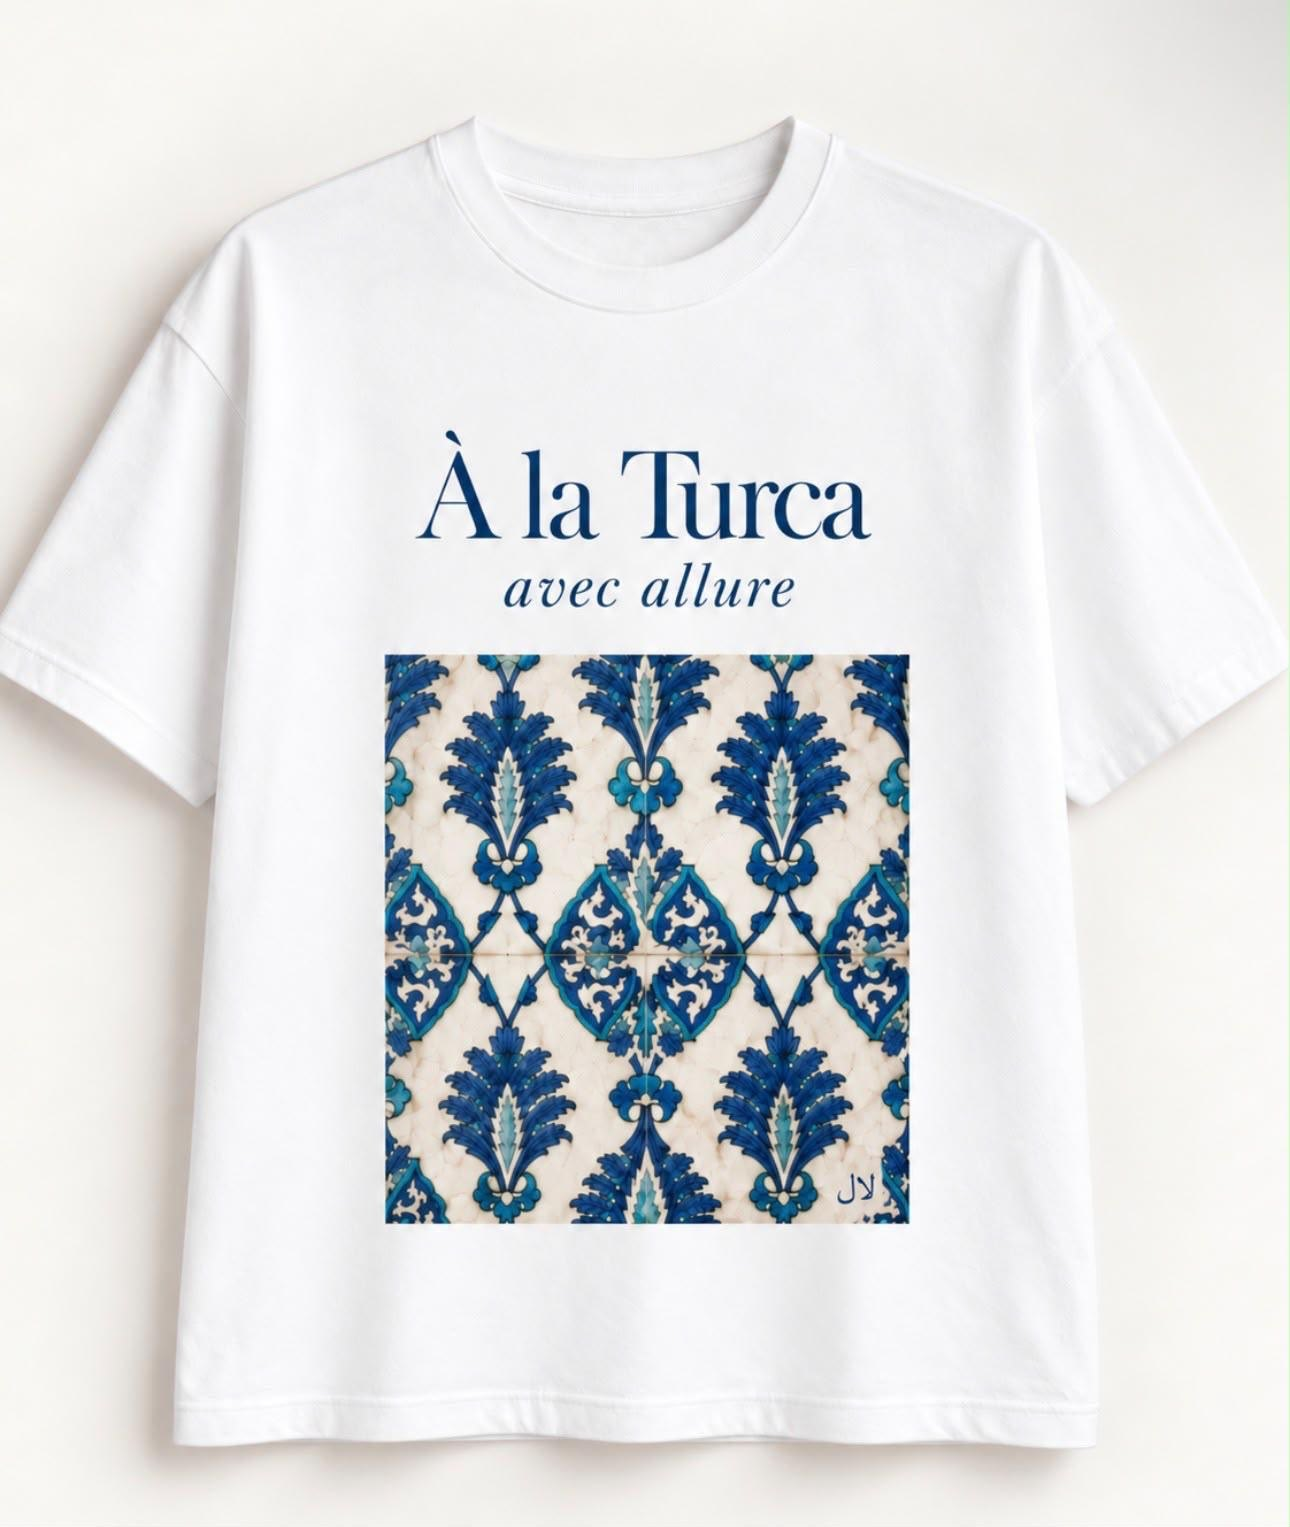
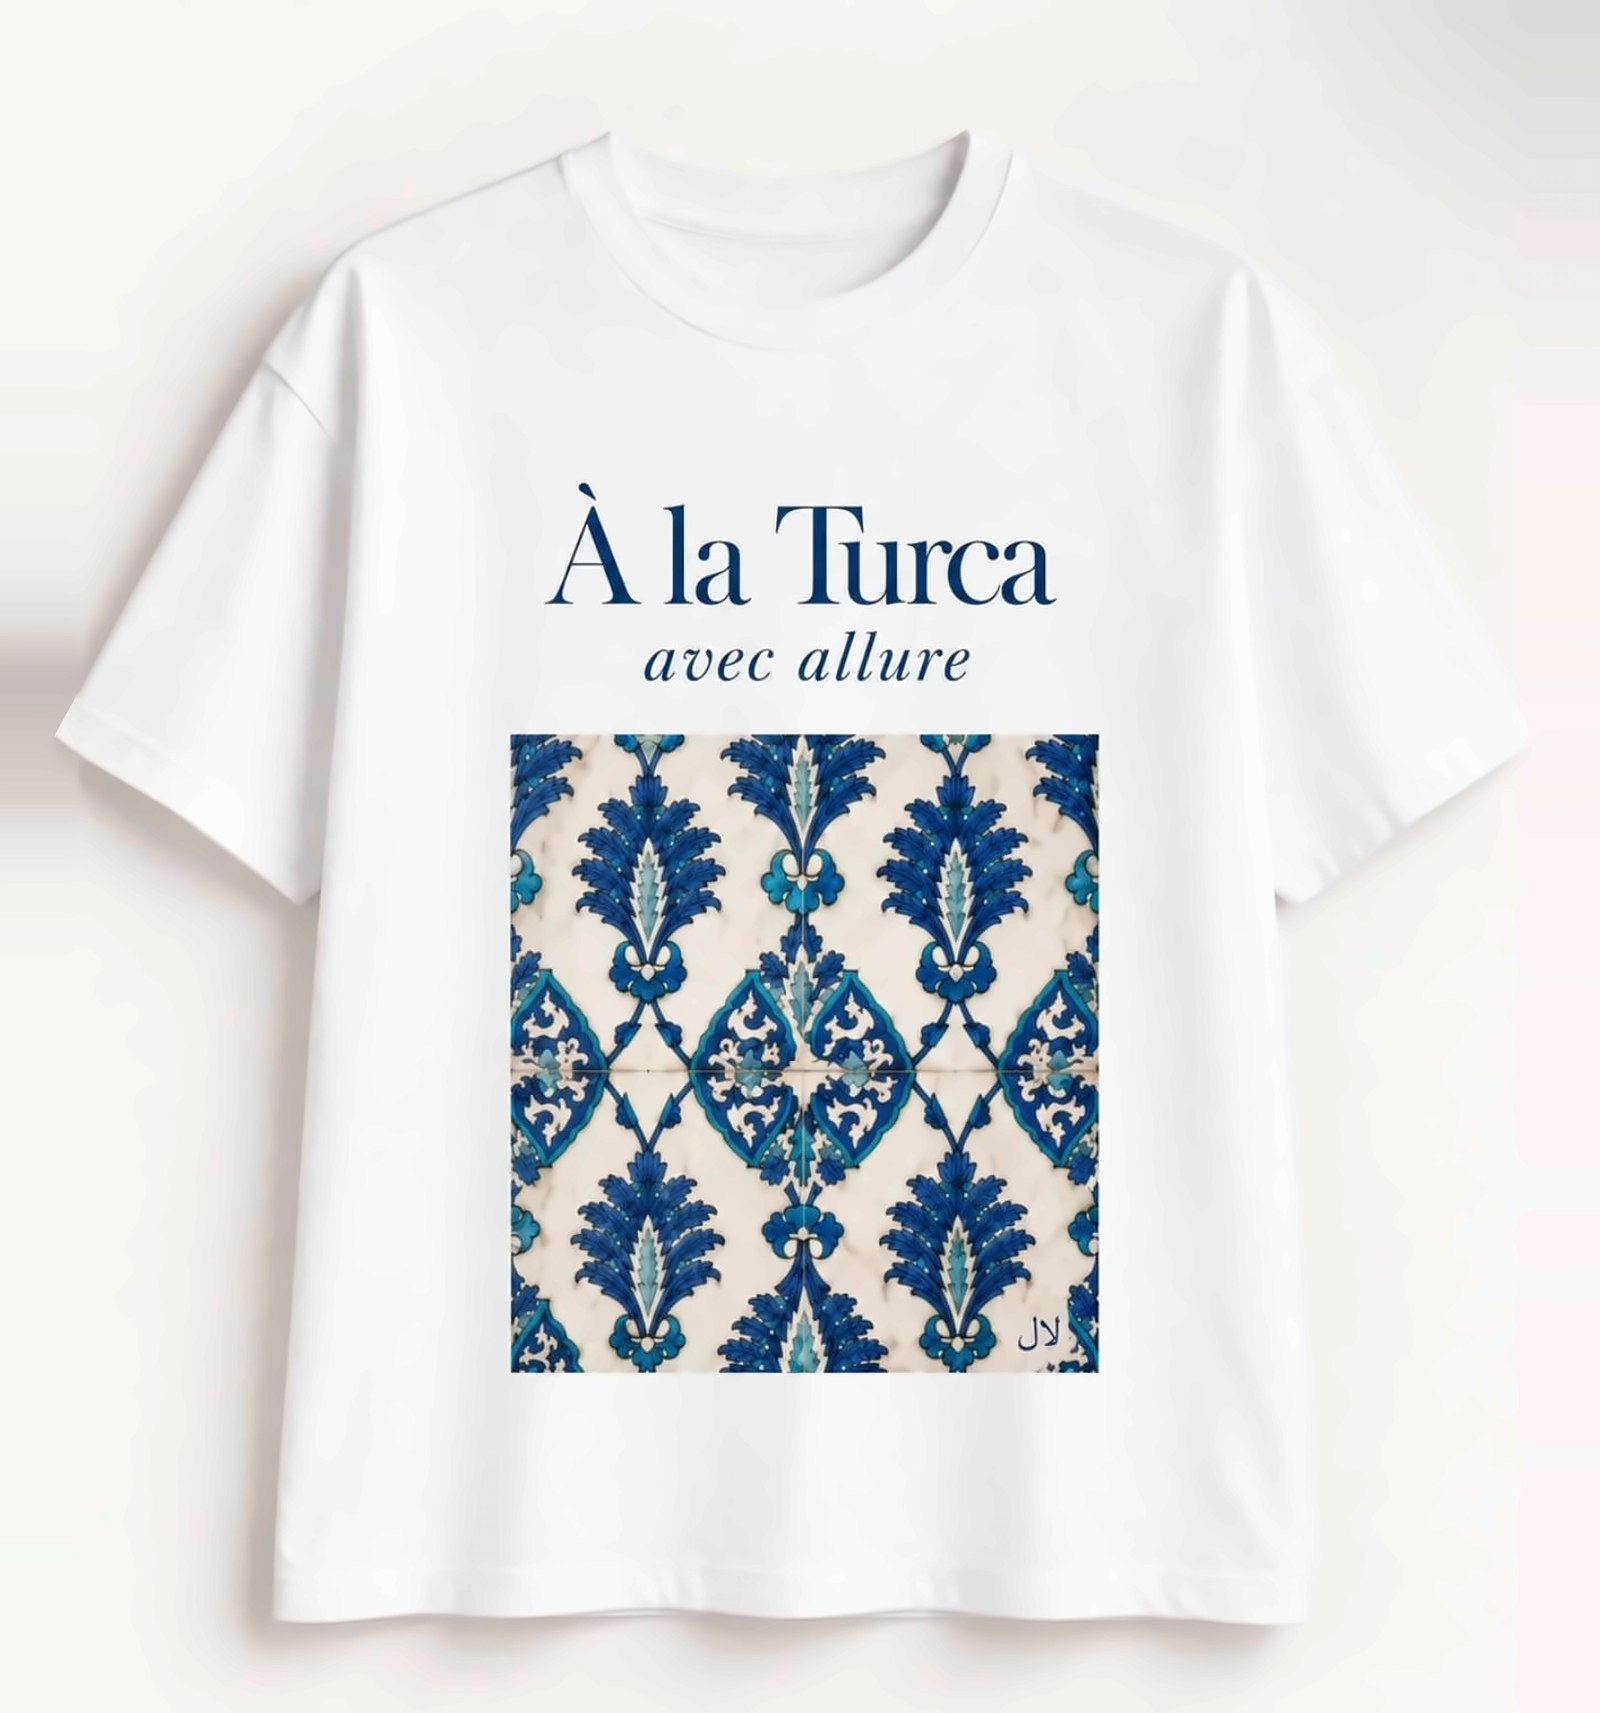
Sharper photos, full sleeves, 100-piece drop, history section
- Main photo: cut-off left sleeve tip rebuilt, margins evened, upscaled (EDSR) and cleaned
- Close-up: denoised and upscaled 4x for a crisper detail view
- Drop size 100 (counter shows at 20 or fewer left)
- Product page: 'Turkish history, with a modern touch' section on Constantinople, the Ottomans and Topkapı Palace

Claude-Session: https://claude.ai/code/session_01GeXEwbQaxxyesJhrXSRHpk

diff --git a/public/index.html b/public/index.html
@@ -14,7 +14,7 @@
 </head>
 <body>
 
-<div class="announce">DROP 01 · LIMITED TO 50 PIECES · FREE UK DELIVERY</div>
+<div class="announce">DROP 01 · LIMITED TO 100 PIECES · FREE UK DELIVERY</div>
 
 <header class="site-header">
   <div class="wrap">
@@ -30,14 +30,14 @@
   <section class="product">
     <div class="gallery">
       <div class="product-image">
-        <img id="main-image" src="/images/a-la-turca.jpg" width="1290" height="1527" alt="White tee printed with 'À la Turca, avec allure' above a blue Iznik tile panel">
+        <img id="main-image" src="/images/a-la-turca.jpg" width="1600" height="1713" alt="White tee printed with 'À la Turca, avec allure' above a blue Iznik tile panel">
       </div>
       <div class="thumbs" role="group" aria-label="Product photos">
-        <button type="button" class="thumb" aria-pressed="true" data-src="/images/a-la-turca.jpg" data-w="1290" data-h="1527" data-alt="White tee printed with 'À la Turca, avec allure' above a blue Iznik tile panel">
-          <img src="/images/a-la-turca.jpg" alt="" width="1290" height="1527"><span>The tee</span>
+        <button type="button" class="thumb" aria-pressed="true" data-src="/images/a-la-turca.jpg" data-w="1600" data-h="1713" data-alt="White tee printed with 'À la Turca, avec allure' above a blue Iznik tile panel">
+          <img src="/images/a-la-turca.jpg" alt="" width="1600" height="1713"><span>The tee</span>
         </button>
-        <button type="button" class="thumb" aria-pressed="false" data-src="/images/a-la-turca-detail.jpg" data-w="512" data-h="568" data-alt="Close-up of the print: cobalt and turquoise Iznik tilework from Topkapı Palace">
-          <img src="/images/a-la-turca-detail.jpg" alt="" width="512" height="568"><span>Close-up</span>
+        <button type="button" class="thumb" aria-pressed="false" data-src="/images/a-la-turca-detail.jpg" data-w="1400" data-h="1553" data-alt="Close-up of the print: cobalt and turquoise Iznik tilework from Topkapı Palace">
+          <img src="/images/a-la-turca-detail.jpg" alt="" width="1400" height="1553"><span>Close-up</span>
         </button>
       </div>
       <p class="caption">The print: Iznik tilework from Topkapı Palace, Istanbul</p>
@@ -46,7 +46,7 @@
     <div class="product-info">
       <div class="drop-row">
         <p class="eyebrow">Drop 01 · The Istanbul Collection</p>
-        <span id="drop-badge" class="drop-badge">Limited to 50 pieces</span>
+        <span id="drop-badge" class="drop-badge">Limited to 100 pieces</span>
       </div>
       <div>
         <h1 class="product-title">À la Turca</h1>
@@ -88,11 +88,24 @@
 
 <div class="tile-band" aria-hidden="true"></div>
 
+<section class="wrap section history" aria-labelledby="history-title">
+  <div class="history-image">
+    <img src="/images/a-la-turca-detail.jpg" width="1400" height="1553" loading="lazy" alt="Close-up of the À la Turca print: cobalt and turquoise Iznik tilework">
+  </div>
+  <div class="history-text">
+    <p class="eyebrow">The story behind the print</p>
+    <h2 id="history-title" class="h2">Turkish history, with a modern touch.</h2>
+    <p>For more than a thousand years, Constantinople stood where Europe meets Asia. It was the capital of the Byzantine Empire and, from 1453, of the Ottomans, who made the city the heart of an empire reaching across three continents.</p>
+    <p>At its centre stood Topkapı Palace, home of the Ottoman sultans for almost four hundred years. Its rooms were dressed in Iznik tiles: cobalt and turquoise tulips, carnations and saz leaves, painted by the finest craftsmen of the age.</p>
+    <p><em>À la Turca</em> takes that rich history and gives it a modern home, on a premium oversized tee made in a limited run of 100.</p>
+  </div>
+</section>
+
 <section class="band">
   <div class="wrap section">
     <div class="section-head">
       <h2>Inspired by Türkiye. Made to last.</h2>
-      <p>Every House of BB design begins with the patterns, colours and craft of Turkey. Each one is released once, in a limited run of 50, and never made again.</p>
+      <p>Every House of BB design begins with the patterns, colours and craft of Turkey. Each one is released once, in a limited run of 100, and never made again.</p>
     </div>
     <div class="pillars">
       <div class="pillar"><p class="num">I</p><h3>Premium cotton</h3><p>A soft, substantial tee that holds its shape, wash after wash.</p></div>
@@ -105,7 +118,7 @@
 
 <section class="newsletter" id="newsletter">
   <h2>Be first to the next drop</h2>
-  <p class="muted" style="margin:0">Each design is limited to 50 pieces. Sign up to hear about Drop 02 before anyone else.</p>
+  <p class="muted" style="margin:0">Each design is limited to 100 pieces. Sign up to hear about Drop 02 before anyone else.</p>
   <!-- Replace action with your email provider's form URL (e.g. Mailchimp, Kit, Klaviyo) -->
   <form action="[NEWSLETTER_FORM_URL]" method="post">
     <label for="email" class="sr-only">Email address</label>

diff --git a/public/about.html b/public/about.html
@@ -12,7 +12,7 @@
 </head>
 <body>
 
-<div class="announce">DROP 01 · LIMITED TO 50 PIECES · FREE UK DELIVERY</div>
+<div class="announce">DROP 01 · LIMITED TO 100 PIECES · FREE UK DELIVERY</div>
 
 <header class="site-header">
   <div class="wrap">
@@ -36,12 +36,12 @@
   <section class="band">
     <div class="wrap section story">
       <div class="story-image">
-        <img src="/images/a-la-turca-detail.jpg" width="512" height="568" alt="Close-up of the À la Turca print: cobalt and turquoise Iznik tilework from Topkapı Palace">
+        <img src="/images/a-la-turca-detail.jpg" width="1400" height="1553" alt="Close-up of the À la Turca print: cobalt and turquoise Iznik tilework from Topkapı Palace">
       </div>
       <div class="story-text">
         <p>House of BB was inspired by Topkapı Palace in Istanbul, home of the Ottoman sultans for nearly four centuries. High above the Bosphorus, its courtyards and private rooms hold some of the finest Iznik tilework ever made.</p>
         <p>Walls of cobalt and turquoise tulips, carnations and saz leaves repeat from floor to ceiling, in patterns that seem to move as you walk through the palace. The design on our first tee is taken from those tiles.</p>
-        <p>We wanted to carry that feeling with us. Our first drop, <em>À la Turca</em>, places that tilework on a premium white tee, limited to 50 pieces.</p>
+        <p>We wanted to carry that feeling with us. Our first drop, <em>À la Turca</em>, places that tilework on a premium white tee, limited to 100 pieces.</p>
       </div>
     </div>
   </section>
@@ -51,7 +51,7 @@
     <div class="pillars">
       <div class="pillar"><h3 class="serif">Heritage, reimagined</h3><p>We honour centuries-old Turkish art by giving it a modern, everyday home.</p></div>
       <div class="pillar"><h3 class="serif">Quality first</h3><p>Premium cotton and rich colour, chosen to look and feel good for years.</p></div>
-      <div class="pillar"><h3 class="serif">Limited by design</h3><p>Each design is released once, in a run of just 50 pieces, and never made again.</p></div>
+      <div class="pillar"><h3 class="serif">Limited by design</h3><p>Each design is released once, in a run of just 100 pieces, and never made again.</p></div>
     </div>
     <p class="center" style="margin-top:48px"><a class="btn" href="/">Shop À la Turca</a></p>
   </section>

diff --git a/public/styles.css b/public/styles.css
@@ -44,7 +44,7 @@ button { font-family: inherit; cursor: pointer; }
 .product { padding: 64px 0 96px; display: grid; grid-template-columns: repeat(auto-fit, minmax(320px, 1fr)); gap: 72px; align-items: start; }
 .product-image { background: var(--cream); border-radius: 4px; padding: 24px; }
 .gallery { display: flex; flex-direction: column; gap: 14px; }
-.gallery .product-image img { width: 100%; aspect-ratio: 1290 / 1527; object-fit: contain; background: #fff; }
+.gallery .product-image img { width: 100%; aspect-ratio: 1600 / 1713; object-fit: contain; background: #fff; }
 .thumbs { display: flex; gap: 12px; }
 .thumb { display: flex; flex-direction: column; gap: 6px; align-items: center; width: 104px; padding: 6px; background: var(--cream); border: 1px solid transparent; border-radius: 4px; color: var(--navy); font-size: 13px; }
 .thumb img { width: 100%; aspect-ratio: 1; object-fit: cover; border-radius: 2px; }
@@ -95,6 +95,13 @@ legend { font-size: 14px; font-weight: 600; letter-spacing: .08em; margin-bottom
 .pillar h3.serif { font-size: 26px; }
 .pillar p { margin: 0; font-size: 16px; line-height: 1.6; color: var(--text-soft); }
 .center { text-align: center; }
+
+/* History (product page) */
+.history { display: grid; grid-template-columns: repeat(auto-fit, minmax(320px, 1fr)); gap: 72px; align-items: center; }
+.history-image { background: var(--cream); border-radius: 4px; padding: 24px; }
+.history-text { display: flex; flex-direction: column; gap: 20px; }
+.history-text p:not(.eyebrow) { margin: 0; font-size: 18px; line-height: 1.7; color: #2C3F66; }
+.history-text .h2 { margin: 0; }
 
 /* Newsletter */
 .newsletter { max-width: 720px; margin: 0 auto; padding: 80px 32px; text-align: center; display: flex; flex-direction: column; gap: 20px; }

diff --git a/api/_lib/drop.js b/api/_lib/drop.js
@@ -7,7 +7,7 @@ import Stripe from 'stripe';
 
 export const DROP = {
   id: process.env.DROP_ID || 'drop-01',
-  limit: parseInt(process.env.DROP_LIMIT || '50', 10),
+  limit: parseInt(process.env.DROP_LIMIT || '100', 10),
   // Only orders from this date onwards count towards the drop (ISO date, e.g. 2026-12-01).
   start: process.env.DROP_START ? Math.floor(new Date(process.env.DROP_START).getTime() / 1000) : 0,
   // Optional closing date/time (ISO, e.g. 2026-12-14T23:59:00Z). Leave empty for no deadline.

diff --git a/public/app.js b/public/app.js
@@ -14,7 +14,7 @@ document.querySelectorAll('.thumb').forEach((thumb) => {
 });
 
 // Show "X left" only once stock is this low, so a slow start doesn't show a big unsold number.
-const SHOW_REMAINING_AT = 15;
+const SHOW_REMAINING_AT = 20;
 
 const form = document.getElementById('buy-form');
 if (form) {

diff --git a/public/shipping.html b/public/shipping.html
@@ -11,7 +11,7 @@
 </head>
 <body>
 
-<div class="announce">DROP 01 · LIMITED TO 50 PIECES · FREE UK DELIVERY</div>
+<div class="announce">DROP 01 · LIMITED TO 100 PIECES · FREE UK DELIVERY</div>
 
 <header class="site-header">
   <div class="wrap">

diff --git a/README.md b/README.md
@@ -79,10 +79,10 @@ You'll also want a **privacy policy** and **terms** page before selling. The sit
 
 ## Limited drops
 
-Each design sells a set number of pieces (default 50), then the site switches to **Sold out** automatically.
+Each design sells a set number of pieces (default 100), then the site switches to **Sold out** automatically.
 
-- **How it counts:** straight from Stripe. Paid orders count as sold. Someone partway through checkout holds their tee for 30 minutes, so the 50 can't be oversold.
-- **What visitors see:** a "Limited to 50 pieces" badge. "Only X of 50 left" appears once 15 or fewer remain. At zero, the button becomes **Sold out** and points people to the email sign-up.
+- **How it counts:** straight from Stripe. Paid orders count as sold. Someone partway through checkout holds their tee for 30 minutes, so the 100 can't be oversold.
+- **What visitors see:** a "Limited to 100 pieces" badge. "Only X of 100 left" appears once 20 or fewer remain. At zero, the button becomes **Sold out** and points people to the email sign-up.
 - **Settings in Vercel:** `DROP_LIMIT` (pieces), `DROP_START` (your launch date, so test orders don't count), and optionally `DROP_ENDS` to close the drop at a date and time, e.g. `2026-12-14T23:59:00Z`.
 - **Launching the next drop:** change `DROP_ID` (e.g. `drop-02`) so the count restarts, update `DROP_START`, then swap the product details. Ask Claude to set up the new design.
 - **Keep it honest:** once a drop sells out, don't reprint that design. The site promises each one is made once.
